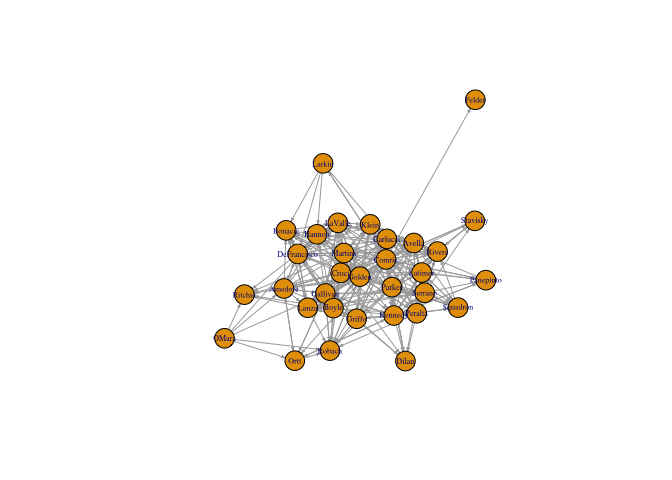
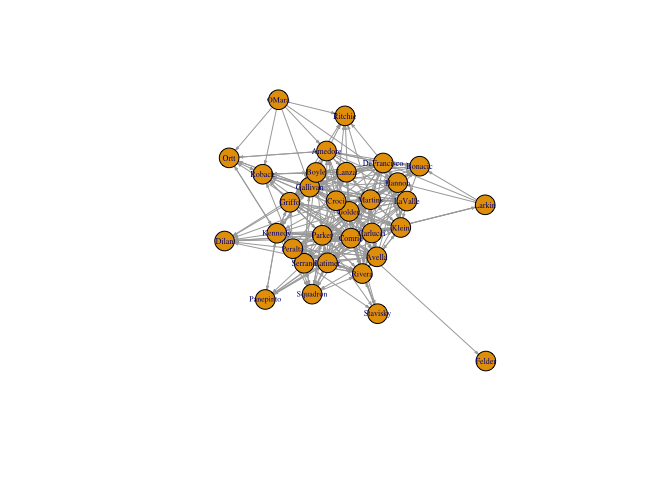
completed changes to ps4

Changed region(s): [[0.3125, 0.1875, 0.75, 0.7812], [0.6875, 0.7188, 0.75, 0.7812], [0.6875, 0.1875, 0.7188, 0.25]]

diff --git a/network-and-social-media-methods/ps4.md b/network-and-social-media-methods/ps4.md
@@ -451,3 +451,243 @@ plot(g1.mut, vertex.size=V(g1.mut)$degree, vertex.label.cex=.5, layout=l)
 ```
 
 ![](ps4_files/figure-gfm/unnamed-chunk-17-1.png)<!-- -->
+
+### degree centralization
+
+#### out degree
+
+``` r
+cent.g1.out <- centralization.degree(g1, mode="out", normalized=TRUE)
+cent.g1.out$centralization
+```
+
+    ## [1] 0.6330645
+
+#### in degree
+
+``` r
+cent.g1.in <- centralization.degree(g1, mode="in", normalized=TRUE)
+cent.g1.in$centralization
+```
+
+    ## [1] 0.2137097
+
+``` r
+degree.dist.out <- degree.distribution(g1, mode="out", cumulative = TRUE)
+degree.dist.out
+```
+
+    ##  [1] 1.00000 0.93750 0.90625 0.87500 0.84375 0.71875 0.65625 0.56250 0.50000
+    ## [10] 0.46875 0.43750 0.40625 0.37500 0.34375 0.28125 0.21875 0.15625 0.12500
+    ## [19] 0.09375 0.09375 0.06250 0.06250 0.03125 0.03125 0.03125 0.03125 0.03125
+    ## [28] 0.03125 0.03125 0.03125
+
+``` r
+plot(degree.dist.out, xlab="Degree", ylab="Cumulative Frequency")
+```
+
+![](ps4_files/figure-gfm/unnamed-chunk-21-1.png)<!-- -->
+
+``` r
+plot(degree.dist.out, xlab="Log Out Degree", ylab="Cumulative Frequency", log="xy")
+```
+
+![](ps4_files/figure-gfm/unnamed-chunk-22-1.png)<!-- -->
+
+``` r
+cent <- centralization.degree(g1.mut, mode="all", normalized=TRUE)
+cent$centralization
+```
+
+    ## [1] 0.2580645
+
+``` r
+centralization.degree(g1, normalized=TRUE)
+```
+
+    ## $res
+    ##  [1] 17 20 20  9 17 15 25 37 21 30 30 22 30 23 22 22 19 20 13 22 26 22 14  7 24
+    ## [26] 37  6  9  6  8  1  6
+    ## 
+    ## $centralization
+    ## [1] 0.3038502
+    ## 
+    ## $theoretical_max
+    ## [1] 1922
+
+### page-rank centrality
+
+``` r
+pr.g1 <- page.rank(g1)
+pr.g1
+```
+
+    ## $vector
+    ##     Amedore     LaValle      Hannon        Ortt       Lanza     Bonacic 
+    ## 0.018096994 0.038779465 0.045556754 0.013232778 0.034368044 0.027503248 
+    ## DeFrancisco      Golden      Griffo     Martins    Gallivan      Avella 
+    ## 0.044779450 0.068039709 0.018874010 0.058877831 0.043834611 0.043236499 
+    ##      Parker    Carlucci     Serrano     Peralta      Rivera       Klein 
+    ## 0.049846876 0.043014455 0.036800891 0.032706541 0.047217636 0.047475389 
+    ##    Squadron       Boyle     Kennedy       Croci      Robach     Ritchie 
+    ## 0.025569762 0.028368491 0.038170691 0.020571451 0.032764613 0.019408043 
+    ##     Latimer      Comrie    Stavisky       Dilan      Larkin   Panepinto 
+    ## 0.033279175 0.025405198 0.013937642 0.019363258 0.006109957 0.013335258 
+    ##      Felder       OMara 
+    ## 0.006109957 0.005365322 
+    ## 
+    ## $value
+    ## [1] 1
+    ## 
+    ## $options
+    ## NULL
+
+``` r
+V(g1)$pagerank <- pr.g1$vector
+pr.df <- data.frame(name=V(g1)$name, pagerank=V(g1)$pagerank)
+```
+
+``` r
+pr.df %>% head(6)
+```
+
+    ##      name   pagerank
+    ## 1 Amedore 0.01809699
+    ## 2 LaValle 0.03877947
+    ## 3  Hannon 0.04555675
+    ## 4    Ortt 0.01323278
+    ## 5   Lanza 0.03436804
+    ## 6 Bonacic 0.02750325
+
+``` r
+pr.df %>% tail(6)
+```
+
+    ##         name    pagerank
+    ## 27  Stavisky 0.013937642
+    ## 28     Dilan 0.019363258
+    ## 29    Larkin 0.006109957
+    ## 30 Panepinto 0.013335258
+    ## 31    Felder 0.006109957
+    ## 32     OMara 0.005365322
+
+``` r
+library(dplyr)
+```
+
+    ## 
+    ## Attaching package: 'dplyr'
+
+    ## The following objects are masked from 'package:igraph':
+    ## 
+    ##     as_data_frame, groups, union
+
+    ## The following objects are masked from 'package:stats':
+    ## 
+    ##     filter, lag
+
+    ## The following objects are masked from 'package:base':
+    ## 
+    ##     intersect, setdiff, setequal, union
+
+``` r
+pr.df <- arrange(pr.df, desc(pagerank))
+head(pr.df)
+```
+
+    ##      name   pagerank
+    ## 1  Golden 0.06803971
+    ## 2 Martins 0.05887783
+    ## 3  Parker 0.04984688
+    ## 4   Klein 0.04747539
+    ## 5  Rivera 0.04721764
+    ## 6  Hannon 0.04555675
+
+``` r
+l=layout.fruchterman.reingold(g1)
+plot(g1, vertex.size=V(g1)$pagerank*300, edge.arrow.size=.2, vertex.label.cex=.7, layout=l)
+```
+
+![](ps4_files/figure-gfm/unnamed-chunk-31-1.png)<!-- -->
+
+### closeness centrality
+
+``` r
+close.g1.m <- closeness(g1.mut, normalized=TRUE)
+avg.paths.g1.m <- 1/close.g1.m
+avg.paths.g1.m
+```
+
+    ##     Amedore     LaValle      Hannon        Ortt       Lanza     Bonacic 
+    ##    2.535714    2.250000    2.428571    2.392857    2.571429    2.571429 
+    ## DeFrancisco      Golden      Griffo     Martins    Gallivan      Avella 
+    ##    2.107143    1.714286    1.892857    1.928571    1.750000    2.178571 
+    ##      Parker    Carlucci     Serrano     Peralta      Rivera       Klein 
+    ##    1.964286    2.035714    1.928571    1.821429    1.892857    2.178571 
+    ##    Squadron       Boyle     Kennedy       Croci      Robach     Ritchie 
+    ##    2.535714    2.035714    1.892857    2.535714    2.392857         NaN 
+    ##     Latimer      Comrie    Stavisky       Dilan      Larkin   Panepinto 
+    ##    2.000000    2.107143    3.071429    2.928571    3.071429    2.500000 
+    ##      Felder       OMara 
+    ##         NaN         NaN
+
+``` r
+close.g1.m[is.nan(close.g1.m)] <- 0
+V(g1.mut)$closeness <- close.g1.m
+plot(g1.mut, vertex.size=V(g1.mut)$degree, vertex.label.cex=.7, layout=l)
+```
+
+![](ps4_files/figure-gfm/unnamed-chunk-33-1.png)<!-- -->
+
+``` r
+plot(g1.mut, vertex.size=V(g1.mut)$closeness*20, vertex.label.cex=.7, layout=l)
+```
+
+![](ps4_files/figure-gfm/unnamed-chunk-34-1.png)<!-- -->
+
+### betweenness centrality
+
+``` r
+betw.g1.m <- betweenness(g1.mut, normalized=FALSE)
+betw.g1.m
+```
+
+    ##     Amedore     LaValle      Hannon        Ortt       Lanza     Bonacic 
+    ##   1.4166667   4.3833333   0.6583333   2.9500000   0.0000000   0.0000000 
+    ## DeFrancisco      Golden      Griffo     Martins    Gallivan      Avella 
+    ##  18.9941850  83.2538004  26.1901557  28.2332875  56.5646978   9.9011905 
+    ##      Parker    Carlucci     Serrano     Peralta      Rivera       Klein 
+    ##  41.5410714  21.3267399  29.0994048  24.0467033  22.5621795   6.6020604 
+    ##    Squadron       Boyle     Kennedy       Croci      Robach     Ritchie 
+    ##   0.3333333   6.0500000  37.6479853   0.7916667   0.0000000   0.0000000 
+    ##     Latimer      Comrie    Stavisky       Dilan      Larkin   Panepinto 
+    ##  24.2529304  59.1002747   0.0000000   0.0000000   0.0000000   1.1000000 
+    ##      Felder       OMara 
+    ##   0.0000000   0.0000000
+
+``` r
+V(g1.mut)$betweenness <- betw.g1.m
+plot(g1.mut, vertex.size=V(g1.mut)$betweenness, vertex.label.cex=.7, layout=l)
+```
+
+![](ps4_files/figure-gfm/unnamed-chunk-36-1.png)<!-- -->
+
+### betweenness centralization and node variation
+
+``` r
+centralization.betweenness(g1.mut, normalized=TRUE)$centralization
+```
+
+    ## [1] 0.1496442
+
+``` r
+sd(V(g1.mut)$betweenness)/mean(V(g1.mut)$betweenness)
+```
+
+    ## [1] 1.330008
+
+``` r
+hist(V(g1.mut)$betweenness)
+```
+
+![](ps4_files/figure-gfm/unnamed-chunk-39-1.png)<!-- -->
